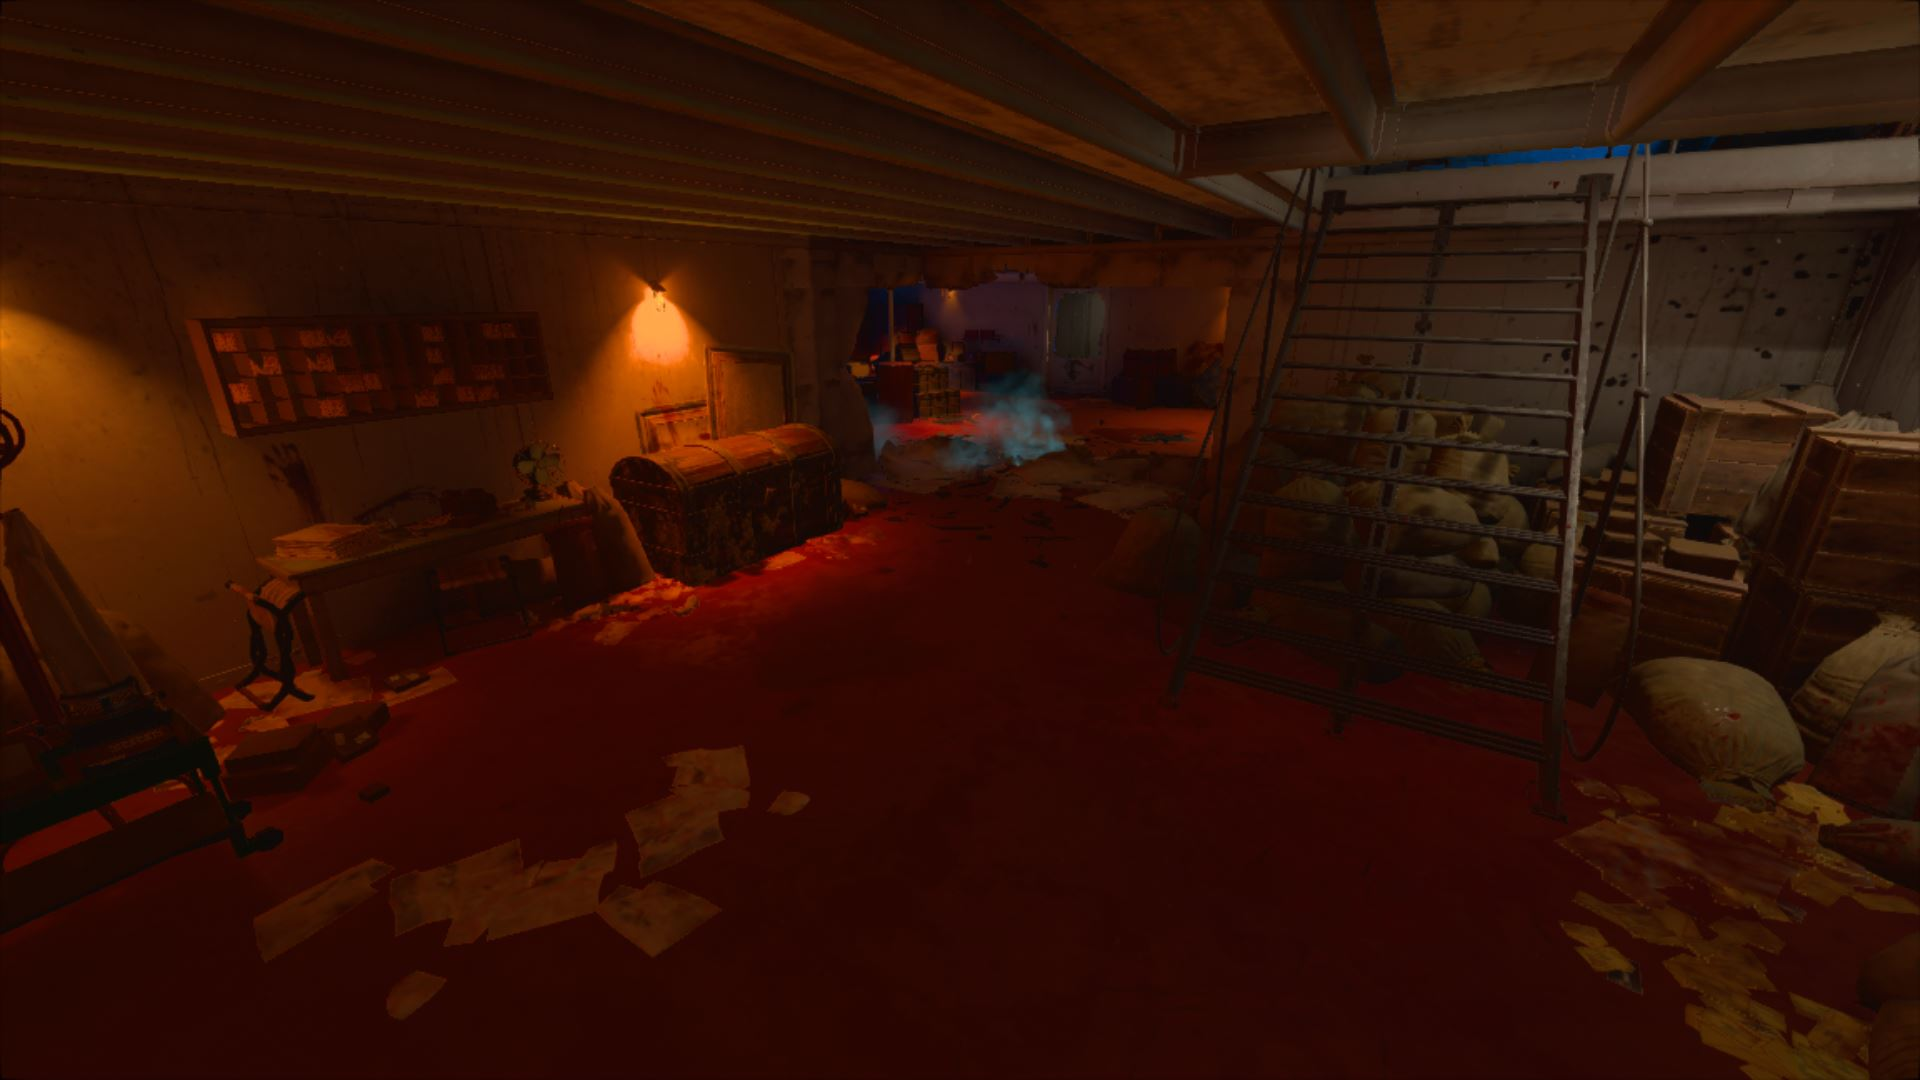
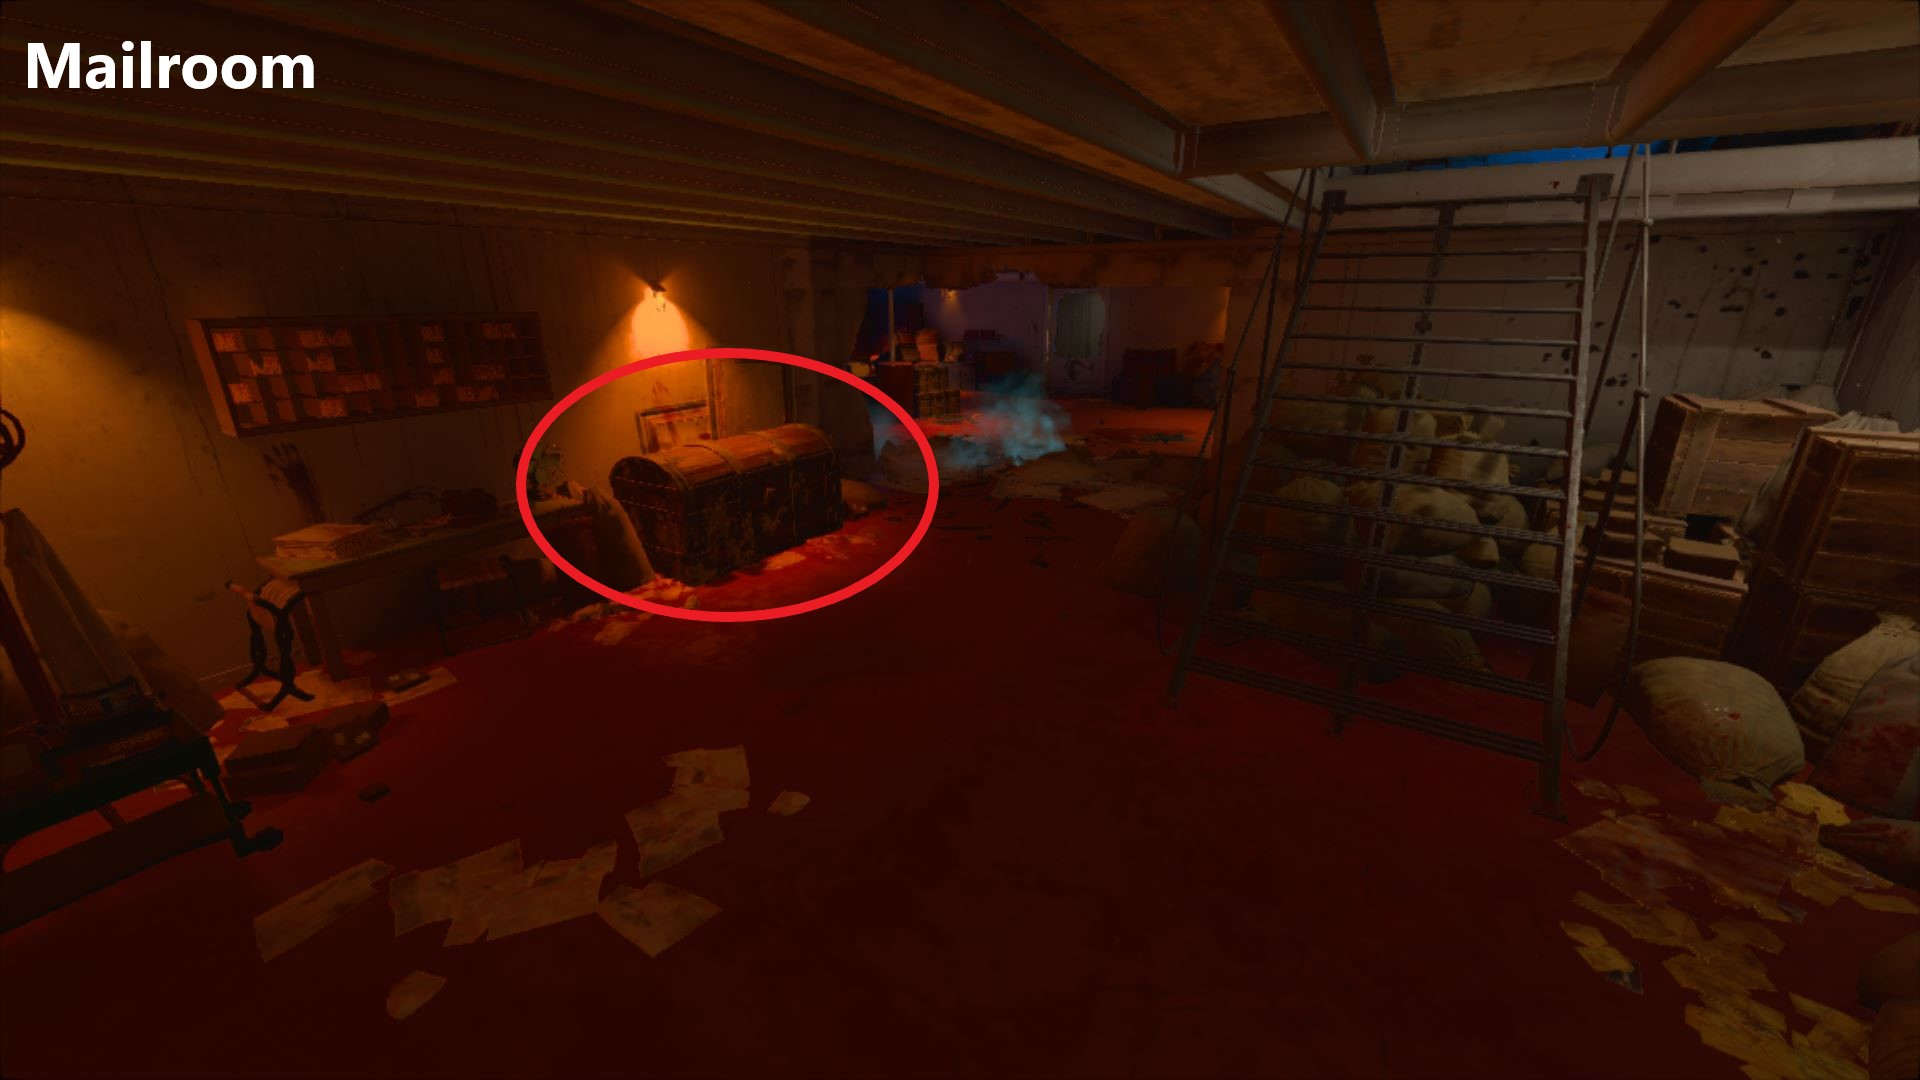
Added more Kraken locations. Added more in-depth pack-a-punch upgrade guide. Converted shield upgrade section to dropdowns. Added reset button to upgrade shield section

diff --git a/voyage/index.html b/voyage/index.html
@@ -123,7 +123,7 @@
 
             <div class="col-12 col-md-8">
                 <div class="alert alert-primary">
-                    <h3 class="alert-heading h3"><span class="fas fa-exclamation-circle"></span> Unlocking All
+                    <h3 class="alert-heading h4"><span class="fas fa-exclamation-circle"></span> Unlocking All
                         Locations</h3>
 
                     <p>
@@ -134,20 +134,42 @@
                     </p>
 
                     <p>
-                        In the engine room, use the Kraken to shoot the four moving pistons in the center of the room.
+                        In the engine room, use the Kraken to shoot the four moving <a data-fancybox href="images/pap/piston.JPG">pistons</a> in the center of the room.
                         They will begin smoking and stop moving.
                     </p>
 
                     <p>
-                        Six blinking red lights will turn on around the room.
-                        Turn the wheel located near each light.
+                        Above the pistons, there will be several <a data-fancybox href="images/pap/valves.JPG">red wheels</a> with matching <a data-fancybox href="images/pap/lights.JPG">lights</a> further above them (3 per piston, 12 total).
+                        Looking up at the lights, turn the wheels that have a flashing light.
+                        This light can be red or white.
+                        If a wheel does not turn right away, holding the interact key (<kbd>F</kbd> on PC) will work.
+                        You must turn each wheel so the handle-bar is facing away from the light.
+                        The bars below the non-flashing lights must be turned toward the light.
                     </p>
 
                     <p>
-                        Once turning all four wheels, go to the Turbine Room and interact with the switch on the wall
-                        next to the entrance.
-                        The Pack-a-Punch will now be available in all four locations.
+                        There should be six flashing lights.
+                        Once all six wheels have been turned, step into the Turbine Room and look to your right.
+                        Against the wall there will be a <a data-fancybox href="images/pap/switch.JPG">lever</a>.
+                        Pull it to complete the upgrade.
                     </p>
+
+                    <p>
+                        The new Pack-a-Punch will spawn in all locations, cost 5000 points to upgrade, but will also refill the ammo of your weapon.
+                        This effect will last <b>one round</b>, after which the Pack-a-Punch will return to its normal rotation.
+                    </p>
+                </div>
+            </div>
+        </div>
+
+        <div class="row">
+            <div class="col">
+                <div class="alert alert-warning">
+                        <span class="fas fa-exclamation-circle"></span>
+                        A glitch may occur if you attempt to upgrade the Pack-a-Punch before completing the <a href="#pipes">Pipes</a> section of the easter egg.
+                        The Pack-a-Punch will revert to one location and will not automatically move to the Turbine Room once it is flooded.
+                        You may be forced to wait several round before being able to upgrade the Artififact.
+                        Therefore it is best to use "Unlocking All Locations" Easter Egg after you have all the pipes leaking, allowing you to instantly Pack-a-Punch the Artifact.
                 </div>
             </div>
         </div>
@@ -1507,11 +1529,18 @@
 
                 </form>
 
+                <br />
+
                 <form name="shield-upgrade">
 
-                    <h2 id="shield2" class="display-4 border-bottom">
-                        Upgraded Shield<wbr />
-                        <span class="text-muted">(Sylvann Guard)</span>
+                    <h2 id="shield2" class="display-4 border-bottom d-flex align-items-center">
+                        <span class="mr-auto">
+                            Upgraded Shield<wbr />
+                            <span class="text-muted">(Sylvann Guard)</span>
+                        </span>
+                        <button type="reset" class="btn btn-lg btn-primary flex-shrink-1" title="Reset Clocks">
+                            <span class="fas fa-redo"></span>
+                        </button>
                     </h2>
 
 
@@ -1548,7 +1577,13 @@
                                             <span class="far fa-image"></span>
                                         </a>
                                     </p>
-                                    <input type="number" class="form-control" placeholder="Code" />
+                                    <select class="form-control">
+                                        <option selected>Code</option>
+                                        <option>1404</option>
+                                        <option>1912</option>
+                                        <option>2340</option>
+                                        <option>4250</option>
+                                    </select>
                                     <br />
                                     <label for="skull-done" class="h5">
                                         <input type="checkbox" class="d-none chk" name="skull-done" id="skull-done" />
@@ -1568,7 +1603,13 @@
                                             <span class="far fa-image"></span>
                                         </a>
                                     </p>
-                                    <input type="number" class="form-control" placeholder="Code" />
+                                    <select class="form-control">
+                                        <option selected>Code</option>
+                                        <option>1404</option>
+                                        <option>1912</option>
+                                        <option>2340</option>
+                                        <option>4250</option>
+                                    </select>
                                     <br />
                                     <label for="longbone-done" class="h5">
                                         <input type="checkbox" class="d-none chk" name="longbone-done" id="longbone-done" />
@@ -1588,9 +1629,13 @@
                                             <span class="far fa-image"></span>
                                         </a>
                                     </p>
-
-
-                                    <input type="number" class="form-control" placeholder="Code" />
+                                    <select class="form-control">
+                                        <option selected>Code</option>
+                                        <option>1404</option>
+                                        <option>1912</option>
+                                        <option>2340</option>
+                                        <option>4250</option>
+                                    </select>
                                     <br />
                                     <label for="hand-done" class="h5">
                                         <input type="checkbox" class="d-none chk" name="hand-done" id="hand-done" />
@@ -1610,7 +1655,13 @@
                                             <span class="far fa-image"></span>
                                         </a>
                                     </p>
-                                    <input type="number" class="form-control" placeholder="Code" />
+                                    <select class="form-control">
+                                        <option selected>Code</option>
+                                        <option>1404</option>
+                                        <option>1912</option>
+                                        <option>2340</option>
+                                        <option>4250</option>
+                                    </select>
                                     <br />
                                     <label for="foot-done" class="h5">
                                         <input type="checkbox" class="d-none chk" name="foot-done" id="foot-done" />
@@ -1737,6 +1788,12 @@
                                 - Lower Section at the bottom of the stairs. Next to one of the <a href="#Clocks">Clocks</a>
                             </li>
                         </ul>
+                    </p>
+
+                    <p>
+                        You may shoot the vials at any point, including at the beginning of the game. 
+                        It is recommended to start working on the vials as early as possible, especially if you're trying to complete the shield in as few rounds as possible.
+                        You may collect one vial per round.
                     </p>
 
                     <p>
@@ -2031,17 +2088,26 @@
                             </h6>
 
                             <ul>
-                                <li>Galley - In the kitchen in a corner. Opposite side that the symbol and clock are
-                                    located on.</li>
-                                <li>Provisions - Meat Locker. The section found when navigating from the Poop Deck to
-                                    the Engine Room</li>
-                                <li>Turbine Room - Engine Room Pack-a-Punch Location. Go behind the Pack-a-Punch and to
-                                    the right.</li>
-                                <li>State Rooms - In the small entrance close to the Grand Staircase leading to the
-                                    Millionaire Suites.</li>
+                                <li>
+                                    Galley - In the kitchen in a corner. Opposite side that the symbol and clock are
+                                    located on.
+                                </li>
+                                <li>
+                                    Provisions - Meat Locker. The section found when navigating from the Poop Deck to
+                                    the Engine Room
+                                </li>
+                                <li>
+                                    <a data-fancybox href="images/kraken/chest-turbine.JPG">Turbine Room</a> - Engine Room Pack-a-Punch Location. Go behind the Pack-a-Punch and to
+                                    the right.
+                                </li>
+                                <li>
+                                    <a data-fancybox href="images/kraken/chest-state.JPG">State Rooms</a> - In the small entrance close to the Grand Staircase leading to the
+                                    Millionaire Suites.
+                                </li>
                                 <li>
                                     <a data-fancybox href="images/kraken/chest-mailroom.JPG">Mail Room</a>
-                                    - Directly to the right of the staircase before the Cargo Hold</li>
+                                    - Directly to the right of the staircase before the Cargo Hold
+                                </li>
                             </ul>
 
                         </div>
@@ -2053,10 +2119,13 @@
                             </h6>
 
                             <ul>
+                                <li><a data-fancybox href="images/kraken/reward-binoculars.JPG">Binoculars</a>
+                                     - <a data-fancybox href="images/kraken/kraken-forecastle.JPG">Forecastle.</a> The spawn; Up the staircase to the right of the Danu Shrine.</li>
                                 <li>Compass - Boat Deck. Top floor of the boat, near the top of the Grand Staircase</li>
                                 <li>Telescope - Poop Deck. Area near the Artifact Spawn. Where you construct the
                                     shield.</li>
                                 <li>Globe - Mid Deck. Area near the exit to the Galley.</li>
+                                <li>Tongs - Aft Deck.</li>
                             </ul>
 
                         </div>
